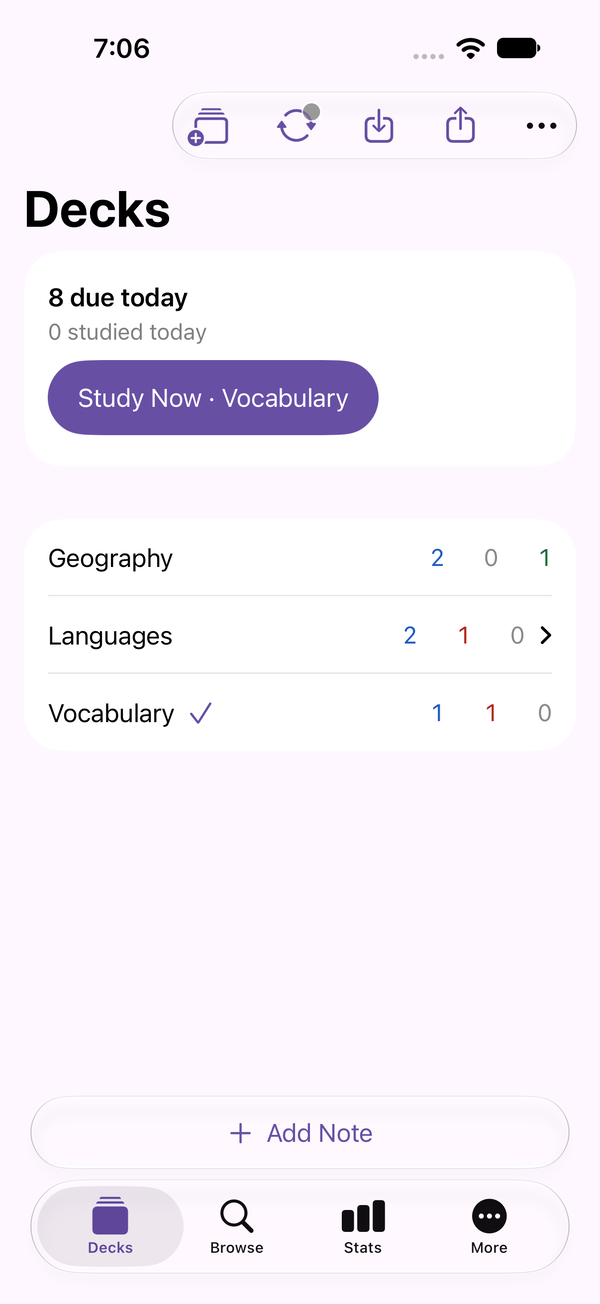
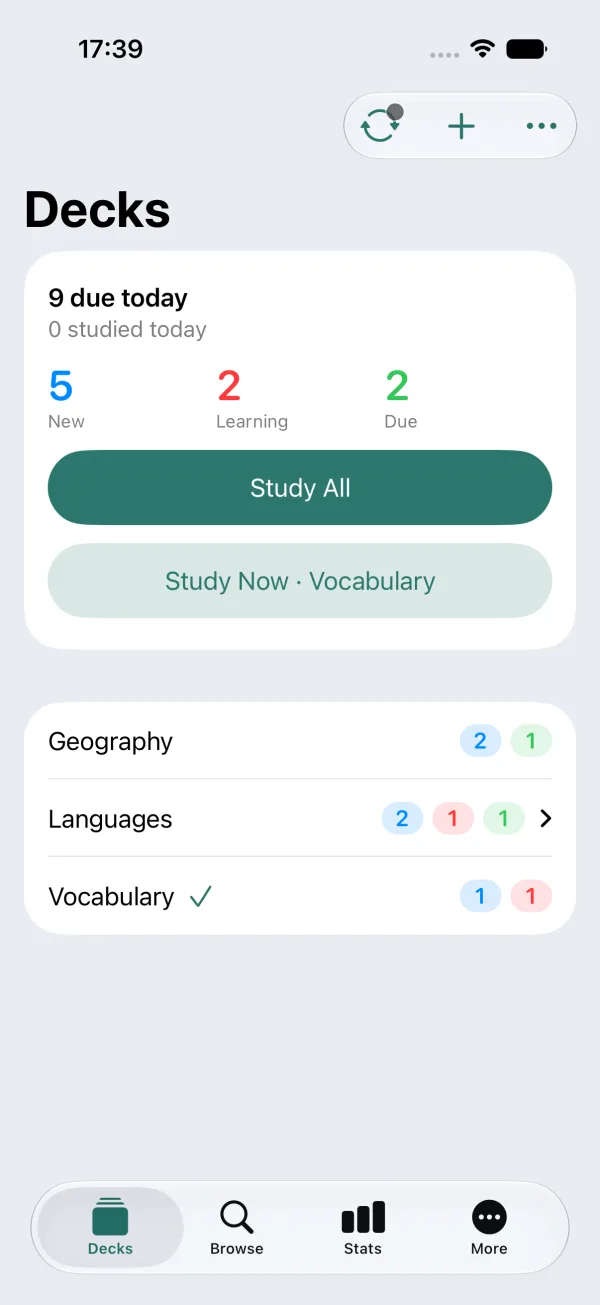
README: describe the redesign and show new screenshots
Replace the screenshots with the redesigned Decks, Study, Finished and
Themes screens (Chinese captures in the zh-CN README) and add the new
study, sync, statistics, theme, Add Note and iPad features.

diff --git a/README.md b/README.md
@@ -20,22 +20,25 @@
   <a href="https://github.com/amemiya02/Hayaki-IOS/issues">Issues</a>
 </p>
 
-Hayaki brings [Hayaki for Android](https://github.com/amemiya02/Hayaki) to iPhone and iPad with a native SwiftUI interface. Your collection lives on your device, so you can study, browse, and edit offline. Hayaki embeds upstream Anki’s Rust core for scheduling, search, sync, and file compatibility with desktop Anki and AnkiDroid.
+Hayaki brings [Hayaki for Android](https://github.com/amemiya02/Hayaki) to iPhone and iPad as a native iOS 26 app built in SwiftUI with Liquid Glass. Your collection lives on your device, so you can study, browse, and edit offline. Hayaki embeds upstream Anki’s Rust core for scheduling, search, sync, and file compatibility with desktop Anki and AnkiDroid.
 
 <p align="center">
-  <img src="docs/assets/iphone-decks.webp" width="240" alt="Decks screen showing today's card counts and the deck list">
-  <img src="docs/assets/iphone-review.webp" width="240" alt="Reviewer showing a MathJax equation and the four answer ratings">
-  <img src="docs/assets/iphone-browse.webp" width="240" alt="Browse screen with Anki search, Cards and Notes modes, and a list of card results">
+  <img src="docs/assets/iphone-decks.webp" width="200" alt="Decks screen with the Today card, Study All, and colored count pills on each deck">
+  <img src="docs/assets/iphone-review.webp" width="200" alt="Study screen with deck name and counts in the navigation bar, a MathJax card, and four glass rating buttons">
+  <img src="docs/assets/iphone-finished.webp" width="200" alt="Finished screen with a session summary of cards reviewed, time spent, and the rating breakdown">
+  <img src="docs/assets/iphone-themes.webp" width="200" alt="Appearance settings showing the ten theme cards">
 </p>
 
 ## Features
 
 - **Study offline.** Review with Anki scheduling and FSRS, use custom study and filtered decks, and undo a rating. Cards can display images, play audio, and render equations with MathJax.
-- **Find and edit cards.** Use Anki search syntax, saved searches, configurable columns, and bulk actions in Cards and Notes modes. Edit rich text, media, note types, and card templates.
+- **Study comfortably.** The deck name and New · Learning · Due counts sit in the navigation bar, rating buttons are glass with haptic feedback, and each session ends with a summary of cards, time, and ratings. Choose whether cards draw Kanji/Hanzi in Japanese or Chinese forms.
+- **Find and edit cards.** Use Anki search syntax, saved searches, configurable columns, and bulk actions in Cards and Notes modes. Edit rich text, media, note types, and card templates. Add a note with `+`, Command-N, the Home Screen quick action, or Siri and Shortcuts.
 - **Move your collection.** Import and export `.apkg` and `.colpkg` files. Deck imports merge into the current collection. Collection imports ask for confirmation and create a backup before replacing it.
-- **Sync when you choose.** Connect each profile to AnkiWeb or a self-hosted Anki sync server. Collection and media sync show their progress separately.
-- **See your progress.** Check due cards, review history, and scheduling statistics. Set local reminders and keep separate collections in separate profiles.
-- **Use it on iPhone or iPad.** Navigate with iPhone tabs or the iPad sidebar. English, Simplified Chinese, and Japanese are supported. The App Groups build also includes Share and deck widgets.
+- **Sync when you choose.** Connect each profile to AnkiWeb or a self-hosted Anki sync server. A glass strip shows progress while syncing, and the Sync screen shows collection and media status separately.
+- **See your progress.** A Today card on Decks totals what is due. Statistics shows reviews, time, correct rate, and streak, with charts you can scrub and scroll and a calendar heat map. Set local reminders and keep separate collections in separate profiles.
+- **Make it yours.** Pick System, Light, Dark, or Black appearance and any of ten themes, including Paper and Midnight card canvases.
+- **Use it on iPhone or iPad.** Navigate with iPhone tabs or the iPad sidebar. On iPad, Browse shows the selected card beside the list, cards keep a readable width, and every shortcut appears when you hold Command. English, Simplified Chinese, and Japanese are supported. The App Groups build also includes Share and deck widgets.
 
 See the [acceptance inventory](docs/specs/ios-acceptance.md) for verified workflows and remaining device checks.
 

diff --git a/README.zh-CN.md b/README.zh-CN.md
@@ -20,22 +20,25 @@
   <a href="https://github.com/amemiya02/Hayaki-IOS/issues">问题反馈</a>
 </p>
 
-Hayaki 用原生 SwiftUI 将 [Hayaki 安卓版](https://github.com/amemiya02/Hayaki) 的学习体验带到 iPhone 和 iPad。集合保存在设备上，离线也能学习、浏览和编辑。应用内嵌上游 Anki 的 Rust 核心，用于复习调度、搜索和同步，并兼容桌面 Anki 和 AnkiDroid 的集合格式。
+Hayaki 用 SwiftUI 和 Liquid Glass 打造原生 iOS 26 应用，将 [Hayaki 安卓版](https://github.com/amemiya02/Hayaki) 的学习体验带到 iPhone 和 iPad。集合保存在设备上，离线也能学习、浏览和编辑。应用内嵌上游 Anki 的 Rust 核心，用于复习调度、搜索和同步，并兼容桌面 Anki 和 AnkiDroid 的集合格式。
 
 <p align="center">
-  <img src="docs/assets/iphone-decks.webp" width="240" alt="牌组页显示今日待学数量和牌组列表">
-  <img src="docs/assets/iphone-review.webp" width="240" alt="复习页显示 MathJax 公式与四种评分">
-  <img src="docs/assets/iphone-browse.webp" width="240" alt="浏览页显示 Anki 搜索、卡片和笔记切换以及搜索结果">
+  <img src="docs/assets/iphone-decks-zh.webp" width="200" alt="牌组页顶部的今日卡片、全部学习按钮，以及每个牌组的彩色数量标签">
+  <img src="docs/assets/iphone-review-zh.webp" width="200" alt="学习页导航栏显示牌组名和数量，下方是 MathJax 卡片和四个玻璃评分按钮">
+  <img src="docs/assets/iphone-finished-zh.webp" width="200" alt="完成页显示本次复习的卡片数、用时和评分分布">
+  <img src="docs/assets/iphone-themes.webp" width="200" alt="外观设置中的十个主题卡片">
 </p>
 
 ## 主要功能
 
 - **离线学习。** 使用 Anki 调度与 FSRS，支持自定义学习、筛选牌组和撤销评分。卡片支持图片、音频和 MathJax 公式。
-- **搜索和编辑。** 支持 Anki 搜索语法、保存搜索、配置列和批量操作，可在卡片和笔记之间切换。支持编辑富文本、媒体、笔记类型和卡片模板。
+- **舒适的学习界面。** 牌组名和「新卡 · 学习中 · 待复习」数量显示在导航栏，评分按钮是带触感反馈的玻璃按钮，每次学习结束会显示卡片数、用时和评分分布。卡片中的汉字可以选择日文或中文字形。
+- **搜索和编辑。** 支持 Anki 搜索语法、保存搜索、配置列和批量操作，可在卡片和笔记之间切换。支持编辑富文本、媒体、笔记类型和卡片模板。可以通过 `+` 按钮、Command-N、主屏幕快捷操作或 Siri 与快捷指令添加笔记。
 - **迁移集合。** 支持导入和导出 `.apkg` 与 `.colpkg`。牌组包合并到当前集合。导入集合包时，应用会在用户确认后先备份，再替换当前集合。
-- **按需同步。** 每个档案可选择 AnkiWeb 或自托管 Anki 同步服务器，集合和媒体分别显示进度。
-- **查看学习进度。** 查看待复习卡片、复习历史和调度统计，设置本地提醒，也可以用独立档案管理不同的集合。
-- **适配 iPhone 和 iPad。** iPhone 使用标签栏，iPad 使用侧栏。支持英语、简体中文和日语。启用 App Groups 的版本还提供分享扩展和牌组小组件。
+- **按需同步。** 每个档案可选择 AnkiWeb 或自托管 Anki 同步服务器。同步时底部玻璃条显示进度，同步页分别显示集合和媒体的状态。
+- **查看学习进度。** 牌组页的今日卡片汇总待学数量。统计页显示复习数、用时、正确率和连续天数，图表可拖动查看数值、横向滚动，还有日历热力图。可设置本地提醒，也可以用独立档案管理不同的集合。
+- **个性化外观。** 外观可选跟随系统、浅色、深色或纯黑，并提供十个主题，其中「纸」和「夜空」主题会改变卡片底色。
+- **适配 iPhone 和 iPad。** iPhone 使用标签栏，iPad 使用侧栏。iPad 上浏览页在列表旁显示所选卡片，卡片保持适合阅读的宽度，按住 Command 可查看全部快捷键。支持英语、简体中文和日语。启用 App Groups 的版本还提供分享扩展和牌组小组件。
 
 已验证的流程和待完成的设备测试记录在 [iOS 验收清单](docs/specs/ios-acceptance.md) 中。
 
